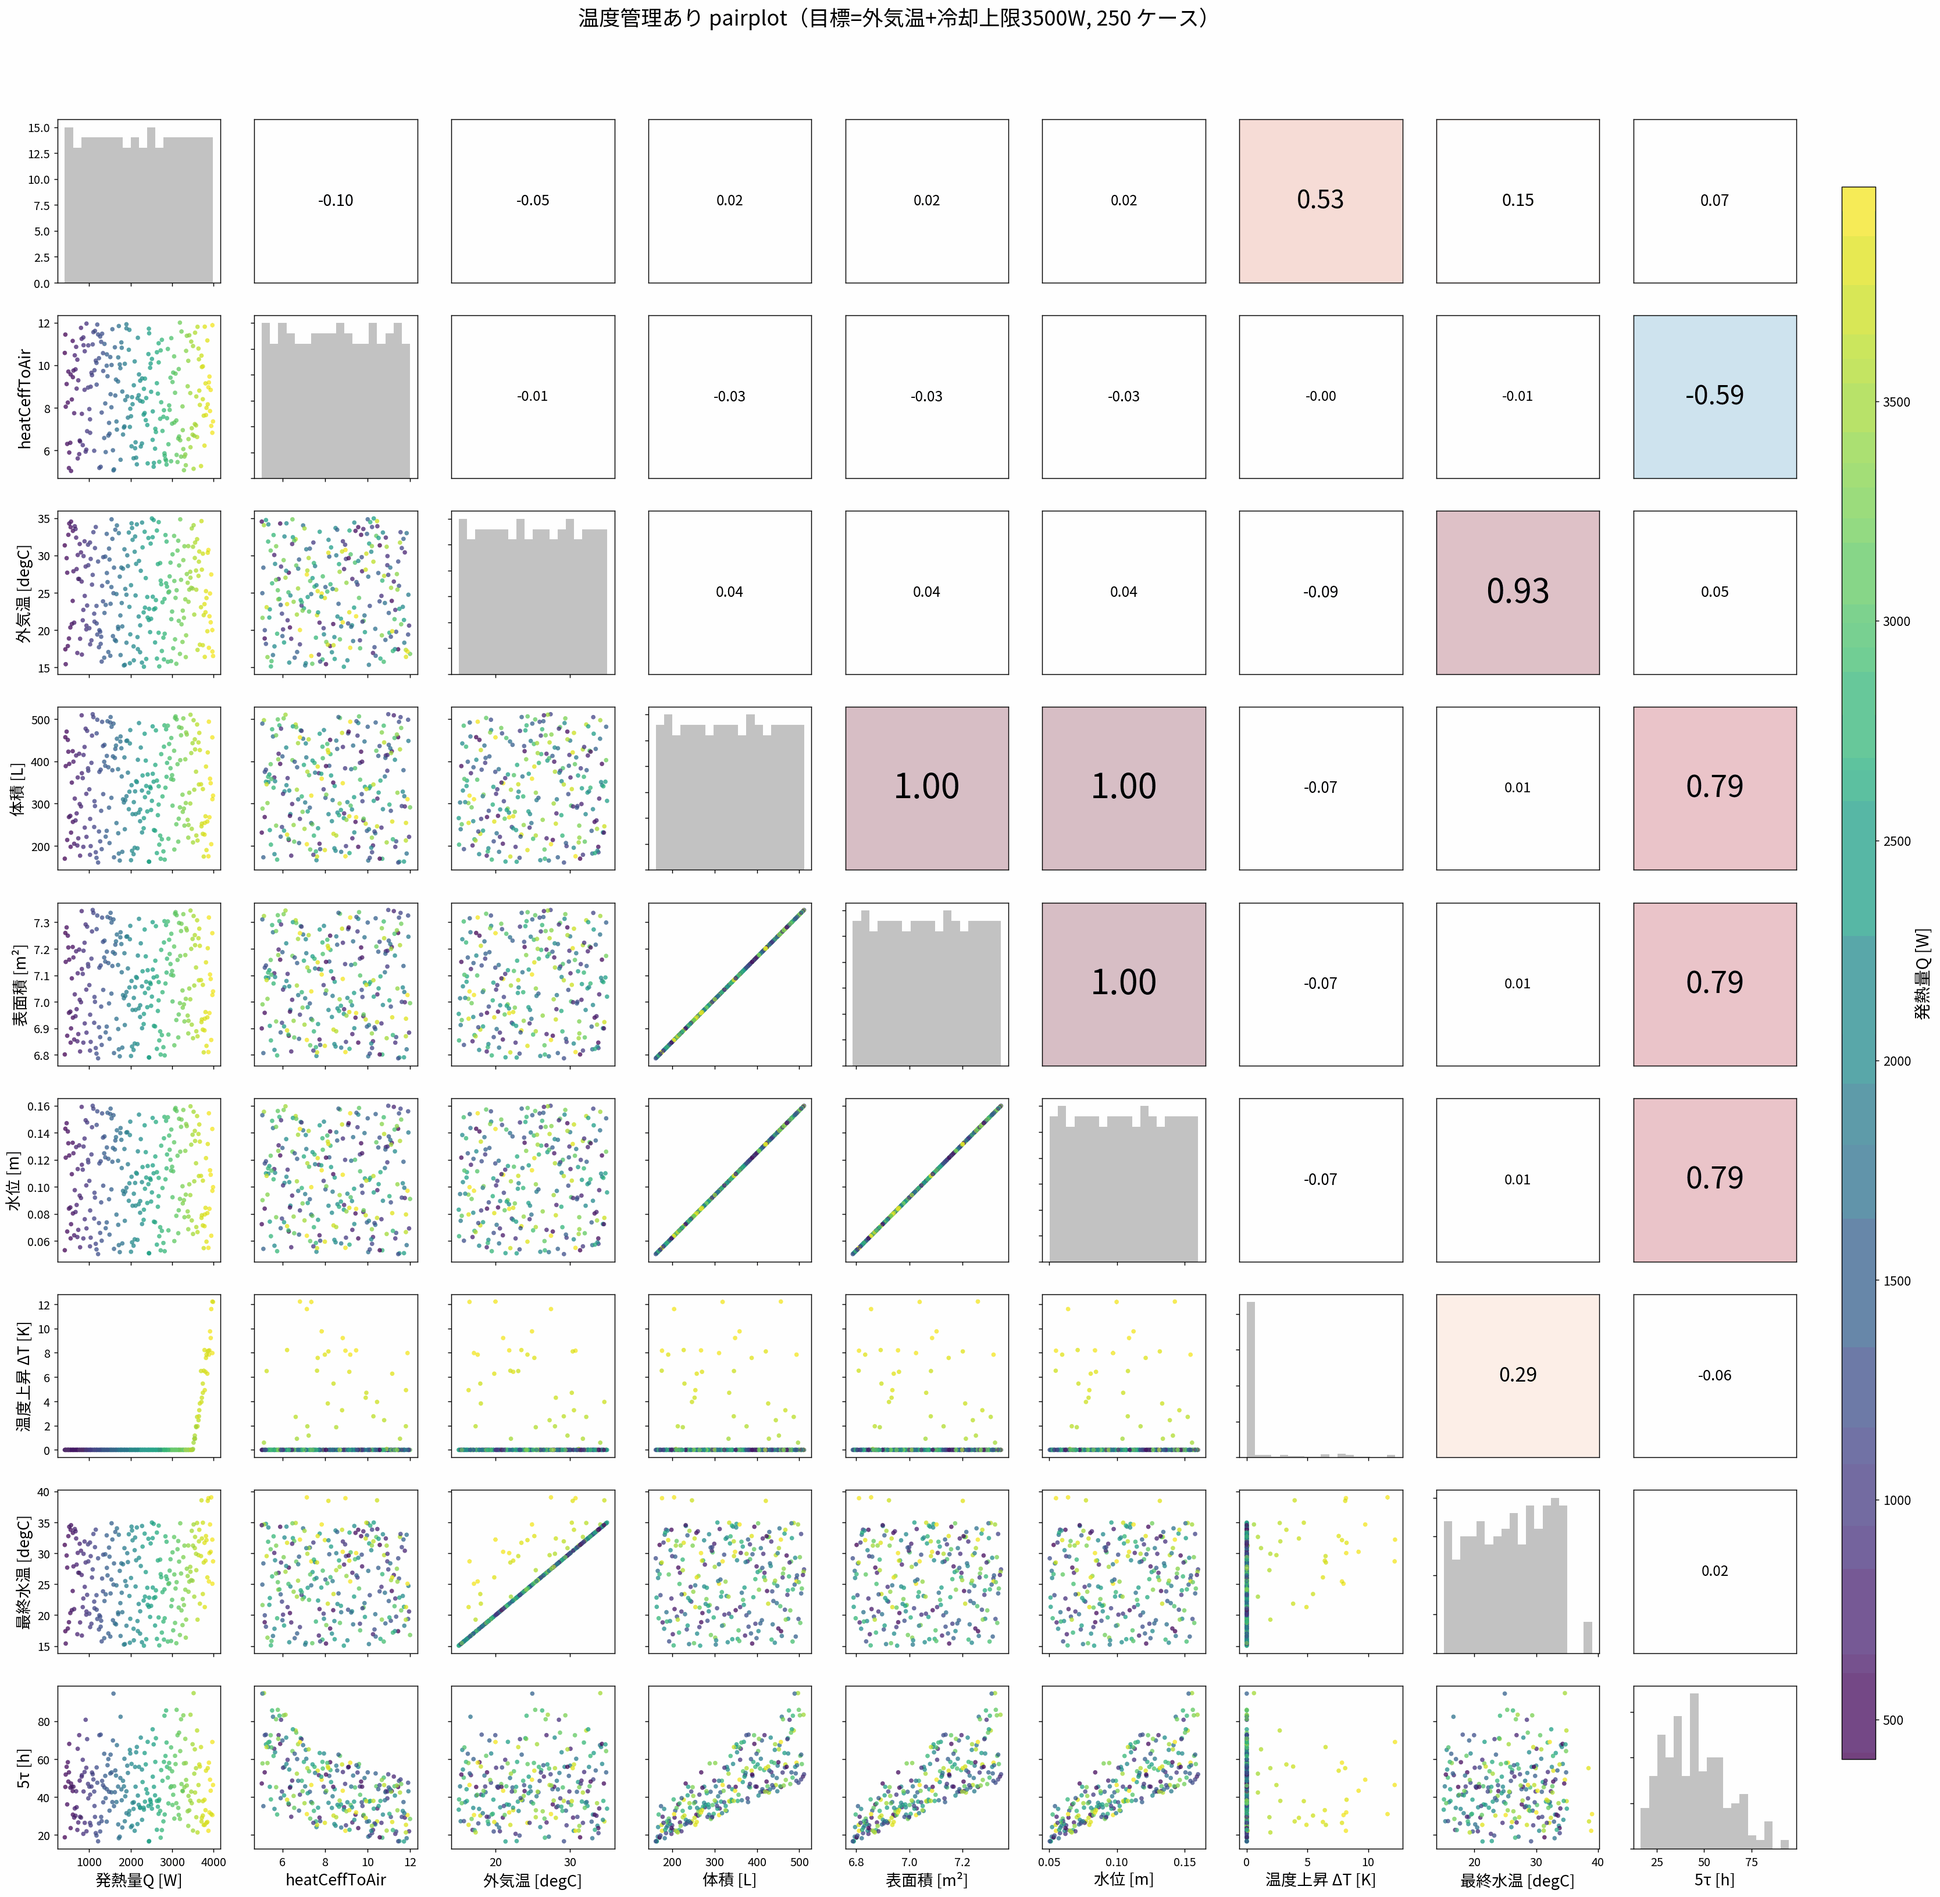
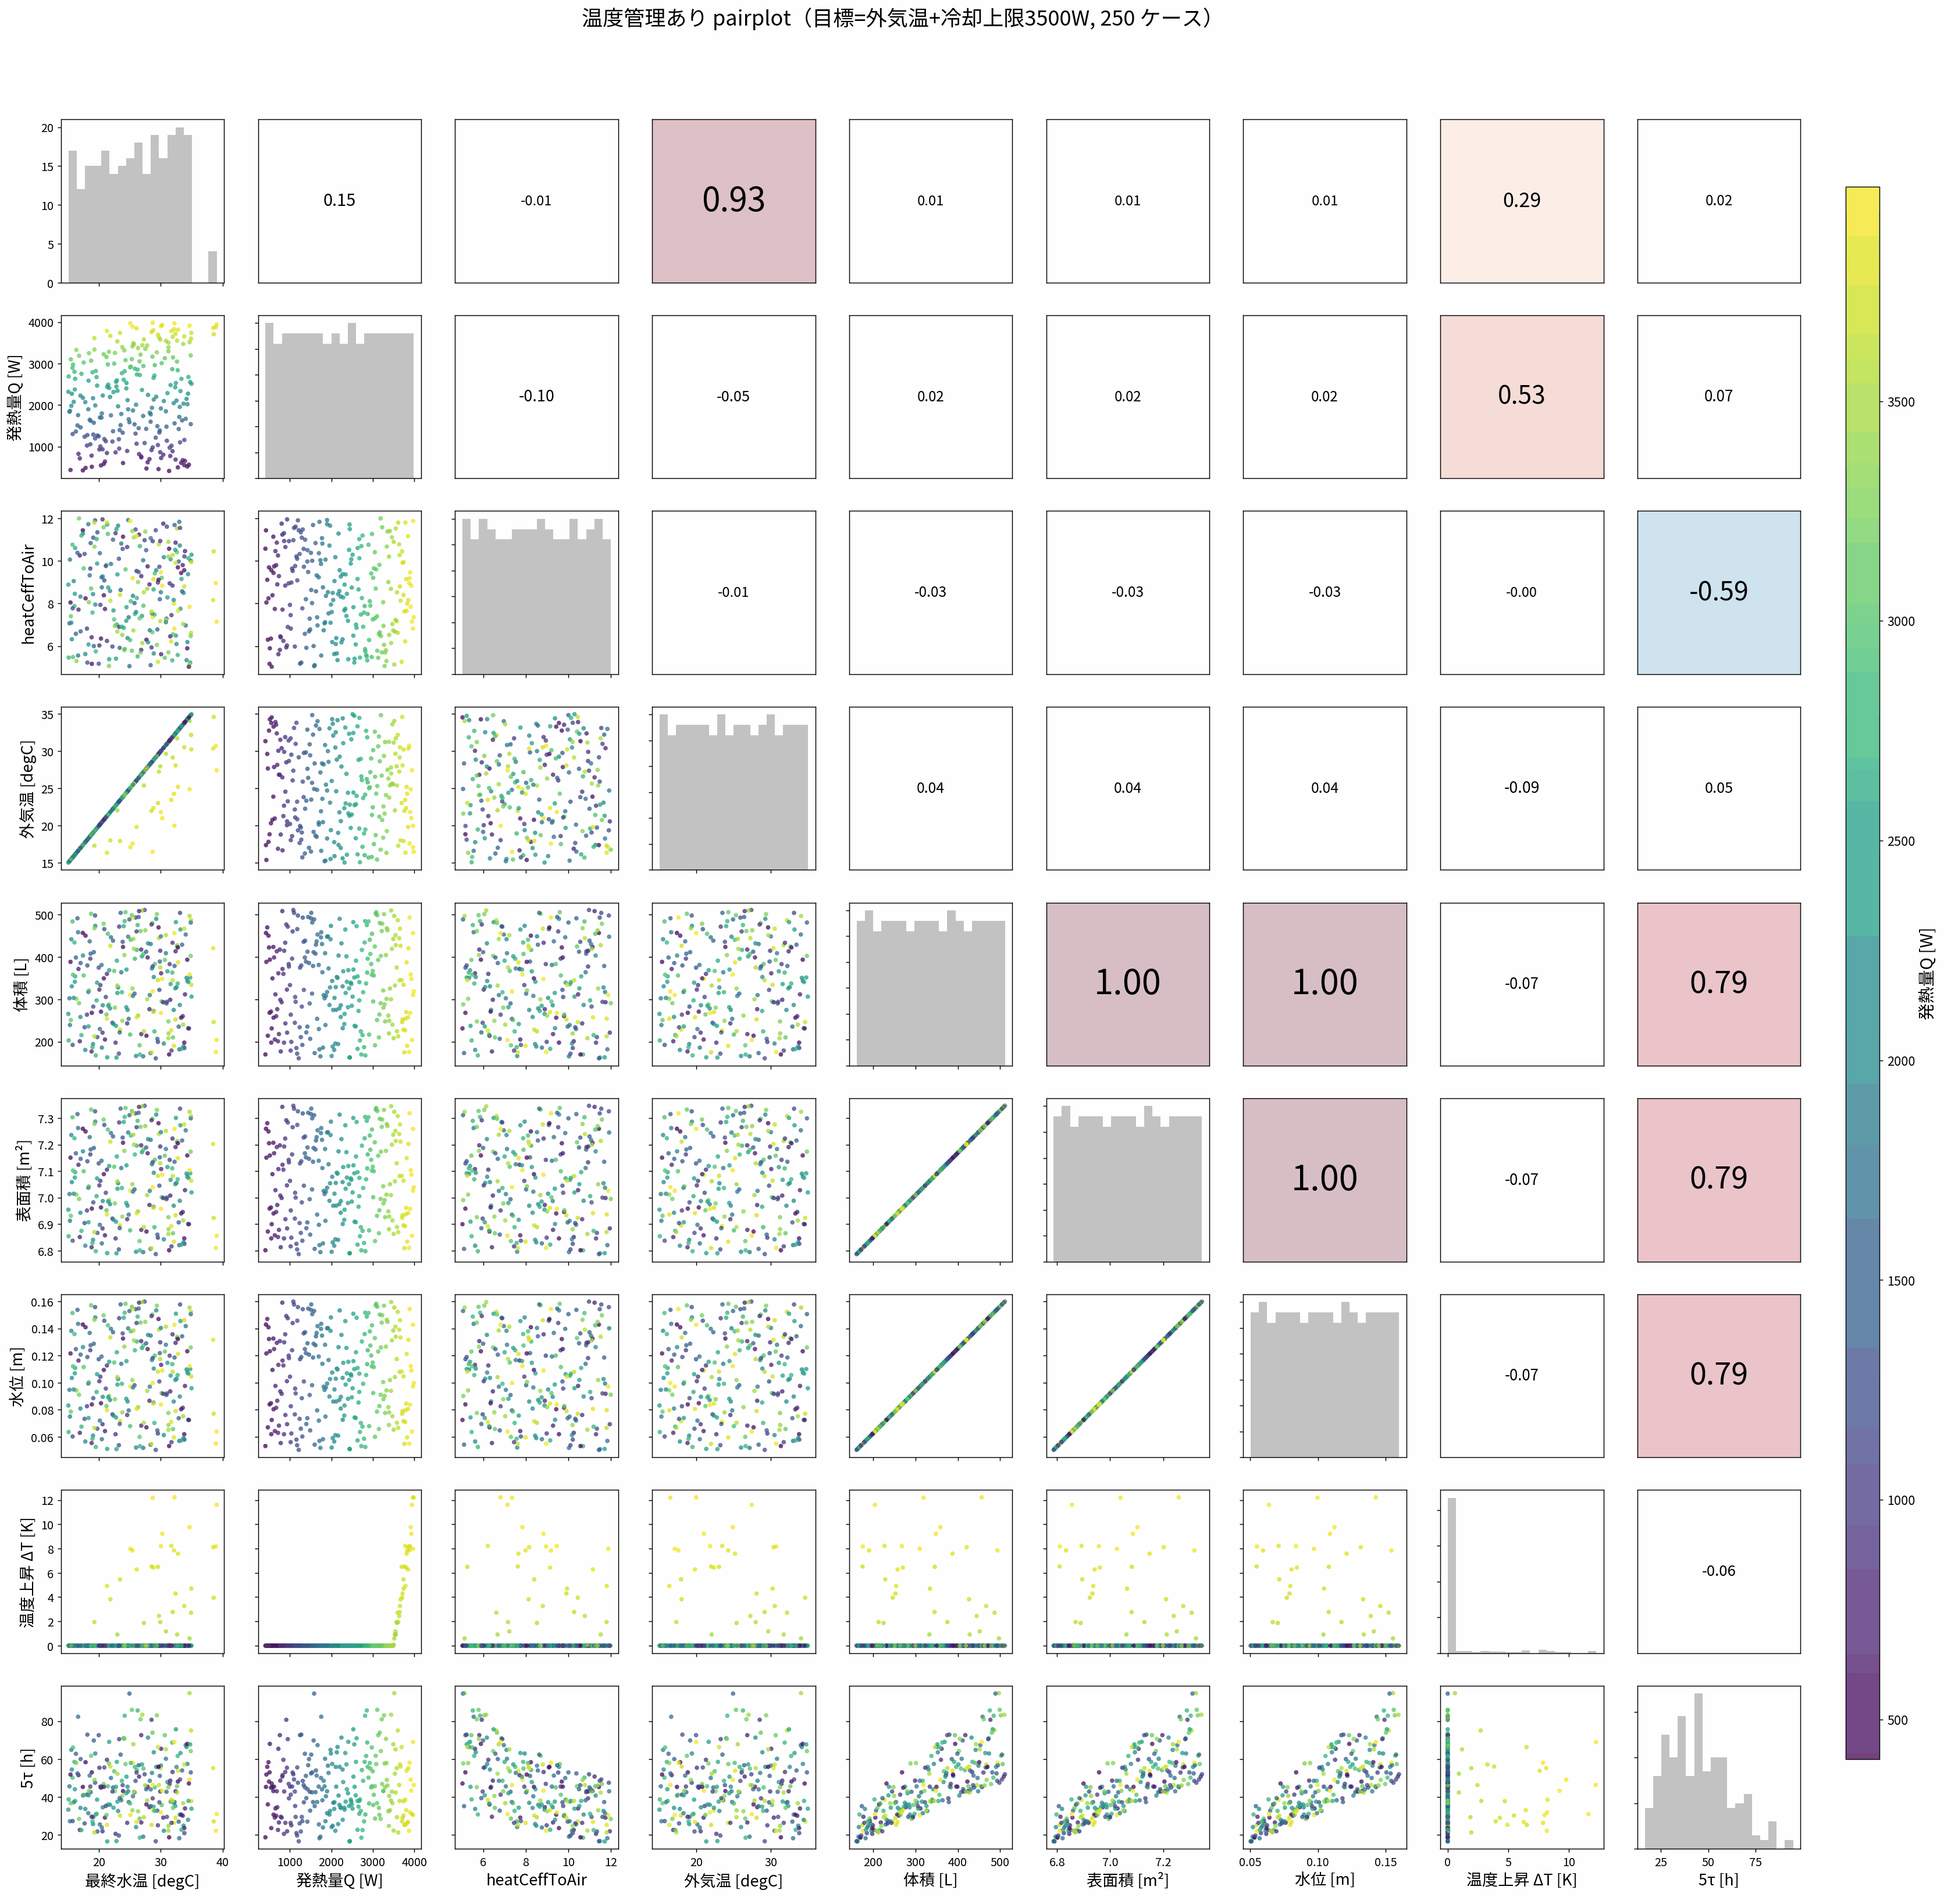
pairplot: 最終水温を先頭(上)に並べ替え
Claude-Session: https://claude.ai/code/session_012Bb2Gqoegt25dmMh1N6dBX

diff --git a/003_tank_para/pairplot_control.py b/003_tank_para/pairplot_control.py
@@ -154,11 +154,11 @@ def main():
     Ar = np.array([area_total(level[k]) for k in range(n)])
     Tfin_off = Tair + dT_off     # 最終水温(絶対) = 外気温 + 温度上昇
     Tfin_on = Tair + dT_on
-    labels = ["発熱量Q [W]", "heatCeffToAir", "外気温 [degC]", "体積 [L]",
-              "表面積 [m²]", "水位 [m]", "温度上昇 ΔT [K]", "最終水温 [degC]", "5τ [h]"]
+    labels = ["最終水温 [degC]", "発熱量Q [W]", "heatCeffToAir", "外気温 [degC]",
+              "体積 [L]", "表面積 [m²]", "水位 [m]", "温度上昇 ΔT [K]", "5τ [h]"]
 
-    data_off = np.column_stack([Q, h_air, Tair, V, Ar, level, dT_off, Tfin_off, tau5])
-    data_on = np.column_stack([Q, h_air, Tair, V, Ar, level, dT_on, Tfin_on, tau5])
+    data_off = np.column_stack([Tfin_off, Q, h_air, Tair, V, Ar, level, dT_off, tau5])
+    data_on = np.column_stack([Tfin_on, Q, h_air, Tair, V, Ar, level, dT_on, tau5])
     pairplot1(data_off, labels, Q, "発熱量Q [W]", os.path.join(IMG, "pairplot_control_off.png"),
               "温度管理なし pairplot（%d ケース, 上三角=相関係数）" % n)
     pairplot1(data_on, labels, Q, "発熱量Q [W]", os.path.join(IMG, "pairplot_control_on.png"),
